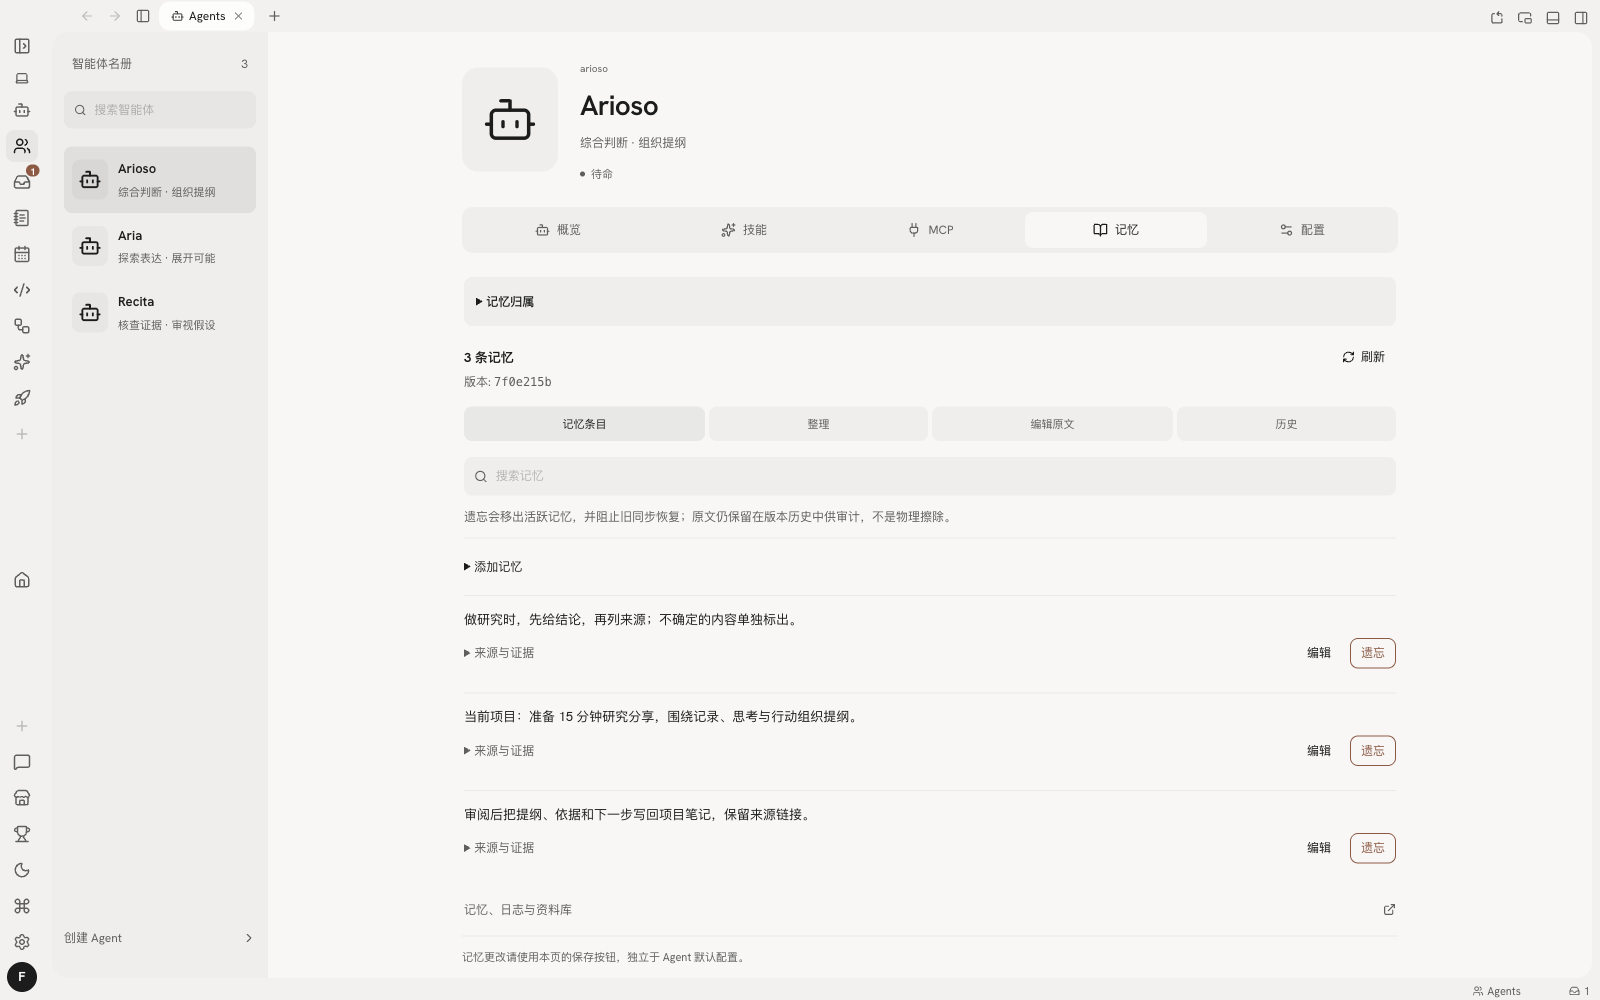
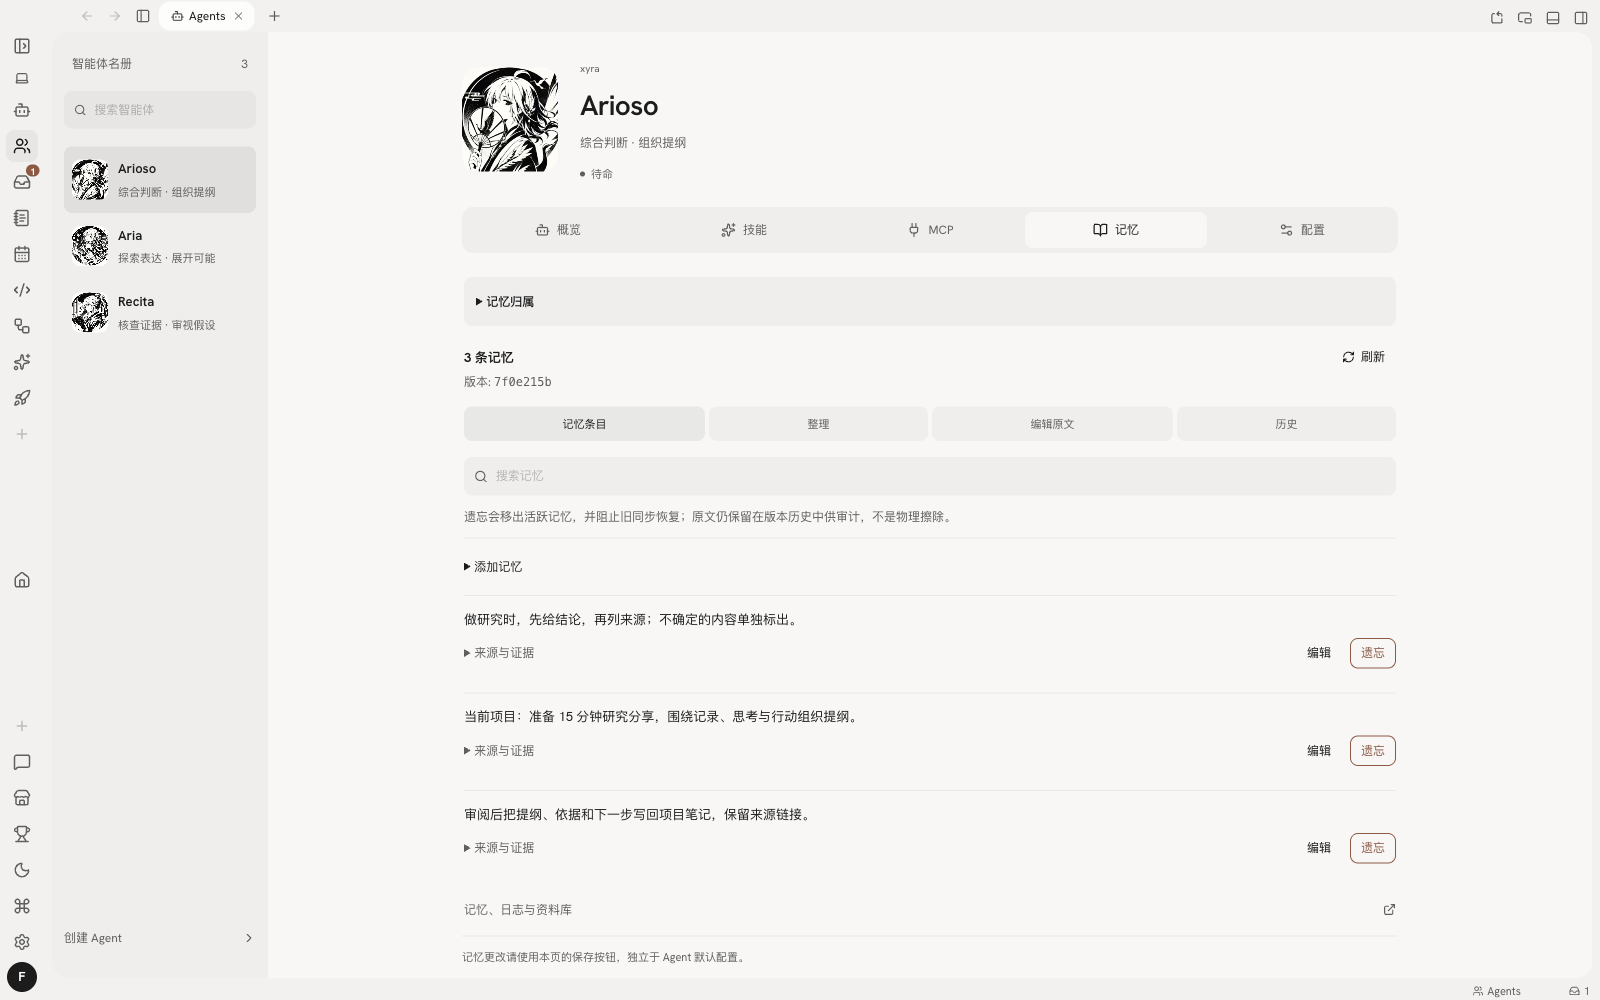
docs: restore built-in agent portraits in showcase captures

Changed region(s): [[0.2812, 0.062, 0.375, 0.186], [0.0312, 0.155, 0.0938, 0.341]]

diff --git a/.github/assets/showcase/README.md b/.github/assets/showcase/README.md
@@ -1,8 +1,8 @@
 # Showcase assets / 展示素材
 
-The READMEs display six new **v2.11.0** screenshots directly in the relevant feature sections. Captured from the real Electron build at `d3fc60f9`, whose desktop tree matches the v2.11.0 release, they use one isolated public research-project fixture. The interface is real; conversation text, memory records, team status and Inbox tasks are seeded sample data. No model calls or personal workspace data were used.
+The READMEs display six new **v2.11.0** screenshots directly in the relevant feature sections. Captured from the real Electron build at `5e2fe953`, whose desktop tree matches the v2.11.0 release, they use one isolated public research-project fixture. The interface is real; conversation text, memory records, team status and Inbox tasks are seeded sample data. No model calls or personal workspace data were used.
 
-中英文 README 在对应段落直接展示六张新 **v2.11.0** 截图。来源为 `d3fc60f9` 的真实 Electron 构建，其 desktop 源码树与 v2.11.0 发布版本一致；使用隔离的公开研究项目夹具。界面真实，对话、记忆、团队状态和收件箱任务为预置样例，不是模型实测，不包含个人数据。
+中英文 README 在对应段落直接展示六张新 **v2.11.0** 截图。来源为 `5e2fe953` 的真实 Electron 构建，其 desktop 源码树与 v2.11.0 发布版本一致；使用隔离的公开研究项目夹具。界面真实，对话、记忆、团队状态和收件箱任务为预置样例，不是模型实测，不包含个人数据。
 
 All six images are complete 1600 × 1000 content viewports, with no post-capture crop, frame, matte, recoloring, or UI modification. / 六张均为完整 1600 × 1000 内容视口，未做后期裁边、边框、铺底、调色或界面修改。
 
@@ -14,6 +14,8 @@ All six images are complete 1600 × 1000 content viewports, with no post-capture
 | `team-thread.png` | Recita's full child conversation beside the main discussion. / 主讨论旁的 Recita 完整子会话。 |
 | `muse-inbox.png` | Follow-up task, expanded instructions and action controls. / 跟进任务、展开的任务书与处理按钮。 |
 | `project-note.png` | Sources, responsibilities and next steps in a local Markdown file. / 本地 Markdown 中的来源、职责与下一步。 |
+
+The capture fixture uses the built-in portraits from `tangu-agent/src/agents/builtinAvatars.ts` and `defaultAvatar.ts`, served through the app's normal avatar endpoint. Arioso retains its canonical `xyra` identifier. Capturing fails if portraits are not requested or visible images fail to decode. / 拍摄夹具通过正常头像接口提供仓库内置原版头像；Arioso 沿用真实标识 `xyra`。头像未请求或可见图片解码失败时终止拍摄，避免再次交付占位图。
 
 ## Reproduce / 复现
 
@@ -46,9 +48,9 @@ The public story follows **capture and connect → remember context → think an
 
 展示主线为**记录与连接 → 记住背景 → 团队思考与执行 → 主动跟进 → 成果沉淀**，插件扩展整条工作流。README 的项目案例是建议配置的使用路径，并非一次模型执行记录。截图只展示标明的工作区与公开样例，不作为多 Agent 或 Muse 真实执行的证据。
 
-Feature copy was rechecked against **v2.11.0 / `ad3bbfba`** on 2026-09-17. README screenshot provenance is now **v2.11.0 / `d3fc60f9`**; six new product captures now accompany that copy; no live-model demonstration was run. See the [bilingual messaging guide](../../../docs/showcase/messaging.md) for reusable copy, source evidence, and the next recording brief.
+Feature copy was rechecked against **v2.11.0 / `ad3bbfba`** on 2026-09-17. README screenshot provenance is now **v2.11.0 / `5e2fe953`**; six new product captures now accompany that copy; no live-model demonstration was run. See the [bilingual messaging guide](../../../docs/showcase/messaging.md) for reusable copy, source evidence, and the next recording brief.
 
-功能文案于 2026-09-17 按 **v2.11.0 / `ad3bbfba`** 重新核对；README 截图来源为 **v2.11.0 / `d3fc60f9`**，本次补齐六张新界面截图，未运行真实模型演示。[双语宣传主线](../../../docs/showcase/messaging.md)提供可复用文案、源码依据与下一轮录制脚本。
+功能文案于 2026-09-17 按 **v2.11.0 / `ad3bbfba`** 重新核对；README 截图来源为 **v2.11.0 / `5e2fe953`**，本次补齐六张新界面截图，未运行真实模型演示。[双语宣传主线](../../../docs/showcase/messaging.md)提供可复用文案、源码依据与下一轮录制脚本。
 
 | Capability / 能力 | Evidence / 依据 | Presentation boundary / 展示边界 |
 | --- | --- | --- |
